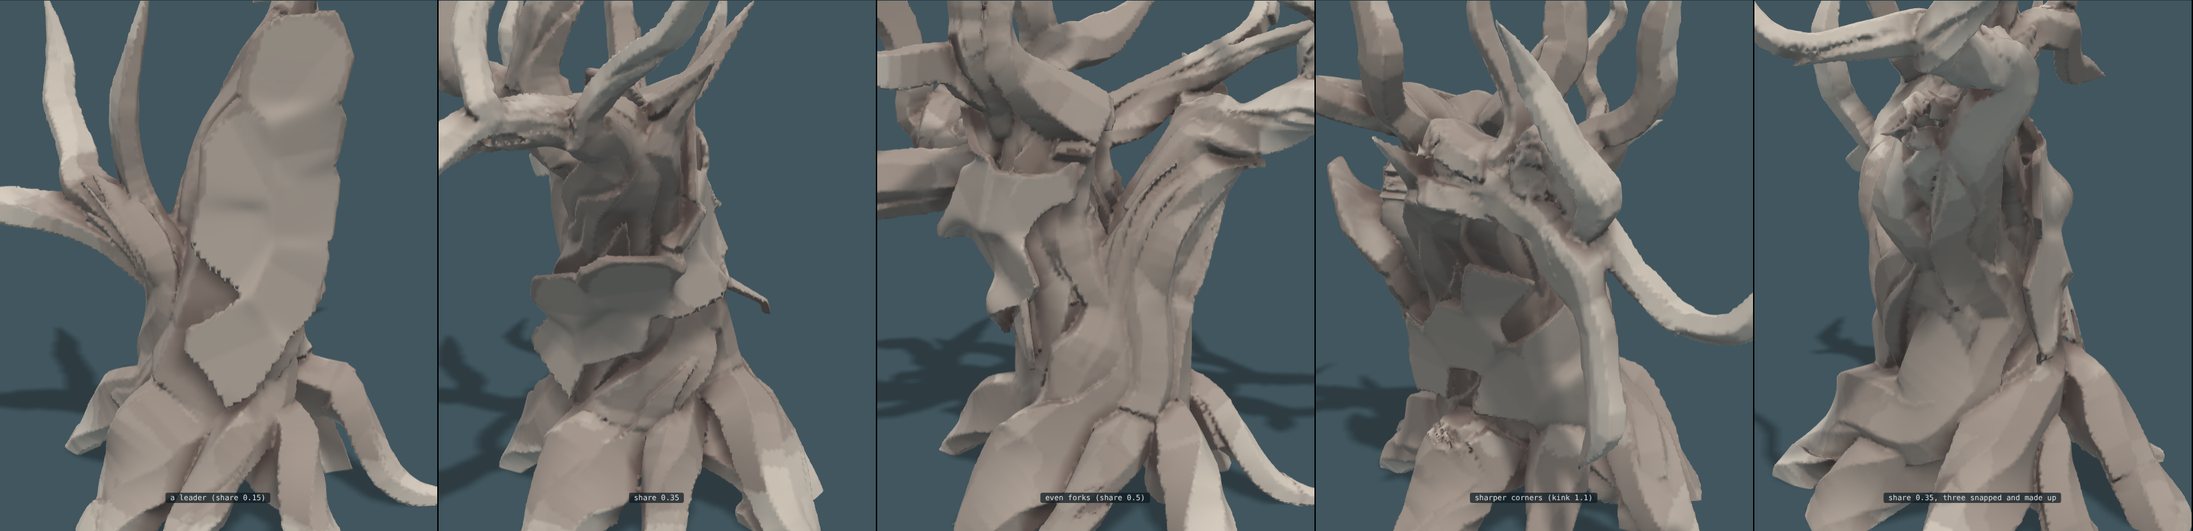
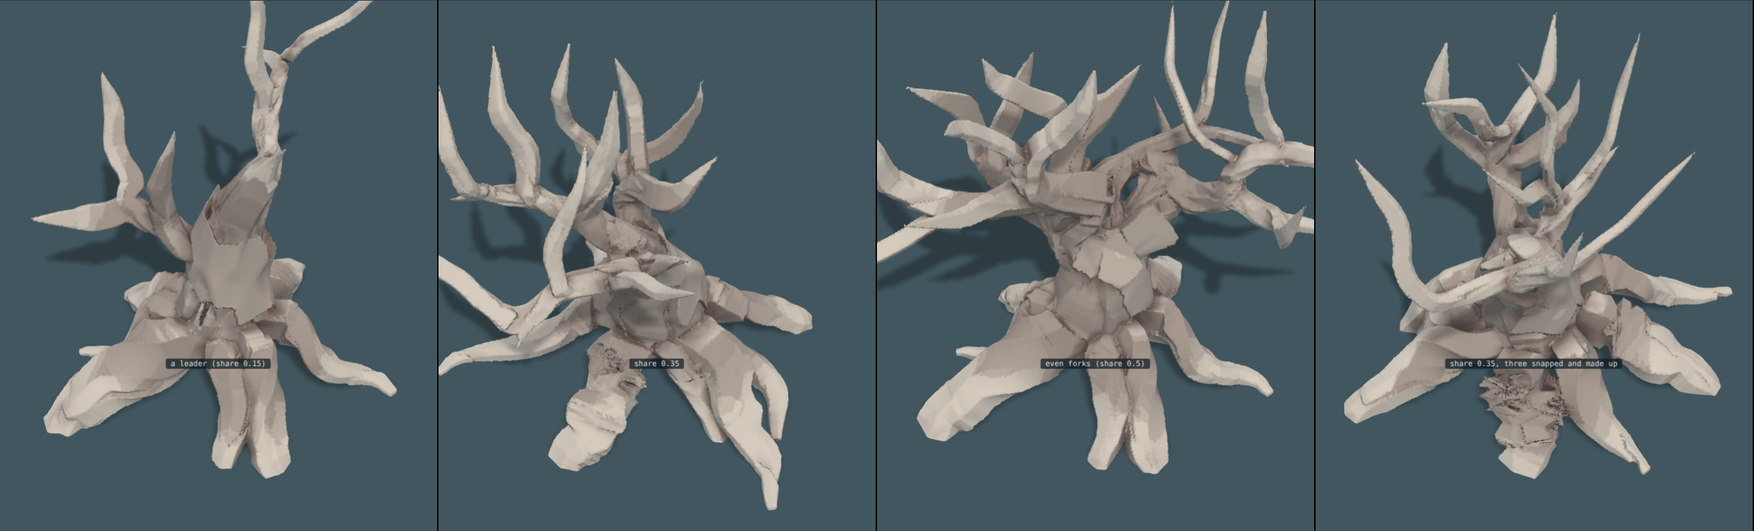
Run 019 and page 11: trees on ground of any shape; roots walked over it, and snaking
Claude-Session: https://claude.ai/code/session_0192rgp75jGkttZXf7hEakip

diff --git a/trees.js b/trees.js
@@ -30,7 +30,10 @@
   function frames(P) { let N = null; return P.map((p, i) => { const T = unit([0, 1, 2].map((k) => P[Math.min(P.length - 1, i + 1)][k] - P[Math.max(0, i - 1)][k])); N = unit((N || [1, 0, 0.2]).map((v, k, A) => v - T[k] * dot(A, T))); return [T, N, cross(T, N)]; }); }
 
   function grow(recipe) {
-    const P = Object.assign({ strands: 8, fill: 0.75, uneven: 0.5, twist: 0.5, taut: 0.3, stiff: 0.05, hug: 0.15, bind: 0.004, roots: 0.6, wind: 1.1, mixed: false, lmax: 0, set: 0, swell: 1, feet: 0, lap: 0, clear: 1, settle: 0, giving: 0.75, passes: 1500, ds: 0.035, seed: 1, trunk: [[0, 0.14, 0, 0.27], [0, 1.6, 0, 0.1]], limbs: [], orb: null }, recipe);
+    const P = Object.assign({ strands: 8, fill: 0.75, uneven: 0.5, twist: 0.5, taut: 0.3, stiff: 0.05, hug: 0.15, bind: 0.004, roots: 0.6, wind: 1.1, mixed: false, lmax: 0, set: 0, swell: 1, feet: 0, lap: 0, ground: null, down: 0.6, crease: 0.5, snake: 1, clear: 1, settle: 0, giving: 0.75, passes: 1500, ds: 0.035, seed: 1, trunk: [[0, 0.14, 0, 0.27], [0, 1.6, 0, 0.1]], limbs: [], orb: null }, recipe);
+    // The ground, if the tree is given one: any function of a place that is how far it is outside the ground (less than
+    // nothing inside). Without one the ground is the level at height 0, as it always was. (A grown tree is always given one, level if nothing else, so that its roots are walked.)
+    const G = P.ground, gradG = G ? (x, y, z) => { const e = 0.008; return unit([G(x + e, y, z) - G(x - e, y, z), G(x, y + e, z) - G(x, y - e, z), G(x, y, z + e) - G(x, y, z - e)]); } : null, rootPts = [];
     const r = rng(P.seed), n = P.strands, ds = P.ds, trunk = line(P.trunk, ds), nT = trunk.length, R0 = trunk[0][3], rho0 = R0 * Math.sqrt(P.fill / n), turn = (i) => P.twist * TAU * i / nT;
     // every strand has a place in the bundle's section, and a girth of its own (mixed: most thin, a few heavy)
     const S = Array.from({ length: n }, (_, j) => { const d = Math.sqrt((j + 0.5) / n), a = j * GA + 0.5 * (r() - 0.5); return { a: d * Math.cos(a), b: d * Math.sin(a), fat: P.mixed ? 0.35 + 1.9 * Math.pow(r(), 2.5) : 1 + P.uneven * (r() - 0.5), limb: -1, give: r() < P.giving ? 1 : 0.25 * r() }; });
@@ -77,9 +80,32 @@
       }
       // its root: the strand itself coming down from the foot of the trunk the way it faces there, heavy, and
       // most often going into the ground. A few stay on it and run out to a point.
-      const p0 = X[0], away = H(p0[0] - trunk[0][0], p0[2] - trunk[0][2]) > 1e-4 ? unit([p0[0] - trunk[0][0], 0, p0[2] - trunk[0][2]]) : [1, 0, 0], len = P.roots * (0.5 + 0.5 * r()), Kr = Math.max(6, Math.round(len / ds)), bend = 2.6 * (r() - 0.5), dives = r() < 0.75, rx = [], rr = [], rg = []; let q = p0;
-      for (let m = 1; m <= Kr; m++) { const g = m / Kr, t = bend * g * g, dir = [away[0] * Math.cos(t) - away[2] * Math.sin(t), 0, away[0] * Math.sin(t) + away[2] * Math.cos(t)], rad = rho[0] * (dives ? 0.5 + 0.5 * (1 - g) : 0.2 + 0.8 * Math.pow(1 - g, 0.8));
-        q = [q[0] + dir[0] * ds, p0[1] + (rad * 0.6 - p0[1]) * sstep(0, 0.8, g) - (dives ? 0.35 * sstep(0.6, 1, g) : 0), q[2] + dir[2] * ds]; rx.push(q); rr.push(rad); rg.push(q); }
+      const p0 = X[0], away = H(p0[0] - trunk[0][0], p0[2] - trunk[0][2]) > 1e-4 ? unit([p0[0] - trunk[0][0], 0, p0[2] - trunk[0][2]]) : [1, 0, 0], len = P.roots * (0.5 + 0.5 * r()), bend = 2.6 * (r() - 0.5), dives = r() < 0.75, rx = [], rr = [], rg = []; let q = p0, Kr = Math.max(6, Math.round(len / ds));
+      if (!G) {
+        for (let m = 1; m <= Kr; m++) { const g = m / Kr, t = bend * g * g, dir = [away[0] * Math.cos(t) - away[2] * Math.sin(t), 0, away[0] * Math.sin(t) + away[2] * Math.cos(t)], rad = rho[0] * (dives ? 0.5 + 0.5 * (1 - g) : 0.2 + 0.8 * Math.pow(1 - g, 0.8));
+          q = [q[0] + dir[0] * ds, p0[1] + (rad * 0.6 - p0[1]) * sstep(0, 0.8, g) - (dives ? 0.35 * sstep(0.6, 1, g) : 0), q[2] + dir[2] * ds]; rx.push(q); rr.push(rad); rg.push(q); }
+      } else {
+        // On ground that is not level a root is not laid, it is walked. From the foot it goes the way its strand faces,
+        // one step at a time over the surface, and at each step takes, of three ways (on, a little left, a little
+        // right), the one that goes more downhill, lies more in a crease, and is further from the roots already
+        // there. It is kept at its own girth's height off the surface, so it goes over an edge and down a face and
+        // never through a corner or clear of the ground. Going down a face counts little toward its length, so one
+        // that goes over an edge runs on until it comes to a ledge. Most then go into the ground where they are.
+        // And it snakes: its heading swings from side to side as it goes, by a different amount and over a different
+        // length for every root and for every swing, so one root pulls in many directions along its run.
+        let pos = p0, h = away, prog = 0, ph = TAU * r(), wave = Math.max(0.24, rho[0] * (7 + 7 * r())), amp = P.snake * (0.4 + 0.5 * r());   // (a swing is several girths long: tighter than that a root runs into itself)
+         const c0 = G(p0[0], p0[1], p0[2]), most = Kr * 4;
+        for (let m = 1; m <= most && prog < len; m++) { const g = Math.min(1, prog / len), rad = rho[0] * (dives ? 0.5 + 0.5 * (1 - g) : 0.2 + 0.8 * Math.pow(1 - g, 0.8)), nn = gradG(pos[0], pos[1], pos[2]);
+          let tt = h.map((v, k) => v - nn[k] * dot(h, nn)); const dn = UP.map((v, k) => -(v - nn[k] * nn[1])), dl = H(dn[0], dn[1], dn[2]); if (H(tt[0], tt[1], tt[2]) < 0.2) tt = dl > 1e-6 ? dn : cross(nn, [1, 0, 0]); tt = unit(tt);
+          { const sw = amp * (TAU * ds / wave) * Math.cos(ph), sd = cross(nn, tt); tt = unit(tt.map((v, k) => v * Math.cos(sw) + sd[k] * Math.sin(sw))); ph += TAU * ds / wave; if (ph > TAU) { ph -= TAU; wave = Math.max(0.24, rho[0] * (7 + 7 * r())); amp = P.snake * (0.4 + 0.5 * r()); } }
+          const side = cross(nn, tt); let best = null;
+          for (const a of [-0.3, 0, 0.3]) { const c = tt.map((v, k) => v * Math.cos(a) + side[k] * Math.sin(a)), pr = pos.map((v, k) => v + c[k] * 0.07); let near = 0.22; for (const q of rootPts) near = Math.min(near, H(pr[0] - q[0], pr[1] - q[1], pr[2] - q[2]));
+            const score = P.down * dot(c, dn) - P.crease * Math.min(1, Math.max(0, G(pr[0] + nn[0] * 0.07, pr[1] + nn[1] * 0.07, pr[2] + nn[2] * 0.07)) / 0.07) + 1.8 * near / 0.22 + (a === 0 ? 0.15 : 0) + 0.1 * r(); if (!best || score > best.score) best = { score, c }; }
+          h = best.c; const want = c0 + (rad * 0.6 - c0) * sstep(0, 0.8, g) - (dives ? 0.35 * sstep(0.6, 1, g) : 0); let nx = pos.map((v, k) => v + h[k] * ds);
+          for (let it = 0; it < 3; it++) { const gn = gradG(nx[0], nx[1], nx[2]), gv = G(nx[0], nx[1], nx[2]); nx = nx.map((v, k) => v + gn[k] * (want - gv)); }
+          const steep = Math.abs(gradG(nx[0], nx[1], nx[2])[1]) < 0.6; prog += ds * (steep ? 0.3 : 1); pos = nx; rx.push(nx); rr.push(rad); rg.push(nx); }
+        for (const q of rx) rootPts.push(q); Kr = rx.length;
+      }
       s.root = Kr; s.K = Kr + X.length; const all = rx.reverse().concat(X), goals = rg.reverse().concat(goal);
       s.X = Float64Array.from(all.flat()); s.goal = Float64Array.from(goals.flat()); s.rho = Float64Array.from(rr.reverse().concat(rho)); s.hold = Float64Array.from(Array.from({ length: Kr }, (_, k) => (k < Kr * 0.45 ? 0.2 : 0)).concat(hold));   // anchored at the far end of its root, and nowhere else
       s.limbAt = fi; s.bend = P.stiff * Math.min(1.6, s.fat * s.fat);
@@ -102,6 +128,7 @@
         for (let k = 0; k < L.K; k++) L.rho[k] = Math.sqrt(L.rho[k] ** 2 + add[k]); }
       for (const [i, lead, m] of cuts) { const B = S[i], k0 = B.root + m; B.X = B.X.slice(k0 * 3); B.goal = B.goal.slice(k0 * 3); B.rho = B.rho.slice(k0); B.hold = new Float64Array(B.K - k0); B.K -= k0; B.base = m; B.root = 0; B.stem = lead; B.po = S[lead].root + m; }
     }
+    if (G) for (const s of S) { s.gc = new Float64Array(s.K); for (let k = 0; k < s.K; k++) s.gc[k] = G(s.goal[k * 3], s.goal[k * 3 + 1], s.goal[k * 3 + 2]); }   // how far off the ground each place on a strand was meant to be
     // Where a shoot snapped off (a limb given as a `stub`). Three ages of the same event:
     //   fresh   the stub stands, its strands broken off a little apart
     //   hollow  the stub has rotted out: its strands end below, fined to points, and there is room where it was
@@ -206,7 +233,8 @@
         for (const v of marks) { if (v.asOrb || (s.limb === v.limb && v.kind === 'fresh')) continue;   // and out of the tunnel where a shoot was (its own stub, if it has one, is what lies there)
           const ax = v.e[0] - v.a[0], ay = v.e[1] - v.a[1], az = v.e[2] - v.a[2], t = Math.max(0, Math.min(1, ((s.X[k * 3] - v.a[0]) * ax + (s.X[k * 3 + 1] - v.a[1]) * ay + (s.X[k * 3 + 2] - v.a[2]) * az) / (ax * ax + ay * ay + az * az))), qx = v.a[0] + ax * t, qy = v.a[1] + ay * t, qz = v.a[2] + az * t;
           const keep = v.r * (v.kind !== 'fresh' ? 1 : 0.8) * vg + s.rho[k], dx = s.X[k * 3] - qx, dy = s.X[k * 3 + 1] - qy, dz = s.X[k * 3 + 2] - qz, d = H(dx, dy, dz) || 1e-9; if (d < keep) { const f = keep / d; s.X[k * 3] = qx + dx * f; s.X[k * 3 + 1] = qy + dy * f; s.X[k * 3 + 2] = qz + dz * f; } }
-        if (s.goal[k * 3 + 1] > 0 && s.X[k * 3 + 1] < s.rho[k] * 0.6) s.X[k * 3 + 1] = s.rho[k] * 0.6; }   // but a root that dives is let through
+        if (G) { if (s.gc && s.gc[k] > 0) { const keep = Math.min(s.rho[k] * 0.6, s.gc[k]), gv = G(s.X[k * 3], s.X[k * 3 + 1], s.X[k * 3 + 2]); if (gv < keep) { const gn = gradG(s.X[k * 3], s.X[k * 3 + 1], s.X[k * 3 + 2]); s.X[k * 3] += gn[0] * (keep - gv); s.X[k * 3 + 1] += gn[1] * (keep - gv); s.X[k * 3 + 2] += gn[2] * (keep - gv); } } }   // out of the ground, whatever its shape: trunk and limbs as well as roots (but a root where it goes in is let through)
+        else if (s.goal[k * 3 + 1] > 0 && s.X[k * 3 + 1] < s.rho[k] * 0.6) s.X[k * 3 + 1] = s.rho[k] * 0.6; }   // but a root that dives is let through
       joins();
       if (SP && pass % SP.every === 0) { const cand = S.map((s, i) => [s.press, i]).filter((q) => q[0] > SP.at).sort((a, b) => b[0] - a[0]); for (const [, i] of cand) { if (S.length >= SP.most) break; divide(i); } for (const s of S) s.press = 0; }
     }
@@ -223,7 +251,8 @@
         for (const v of marks) { if (v.asOrb || (s.limb === v.limb && v.kind === 'fresh')) continue;   // and out of the tunnel where a shoot was (its own stub, if it has one, is what lies there)
           const ax = v.e[0] - v.a[0], ay = v.e[1] - v.a[1], az = v.e[2] - v.a[2], t = Math.max(0, Math.min(1, ((s.X[k * 3] - v.a[0]) * ax + (s.X[k * 3 + 1] - v.a[1]) * ay + (s.X[k * 3 + 2] - v.a[2]) * az) / (ax * ax + ay * ay + az * az))), qx = v.a[0] + ax * t, qy = v.a[1] + ay * t, qz = v.a[2] + az * t;
           const keep = v.r * (v.kind !== 'fresh' ? 1 : 0.8) * vg + s.rho[k], dx = s.X[k * 3] - qx, dy = s.X[k * 3 + 1] - qy, dz = s.X[k * 3 + 2] - qz, d = H(dx, dy, dz) || 1e-9; if (d < keep) { const f = keep / d; s.X[k * 3] = qx + dx * f; s.X[k * 3 + 1] = qy + dy * f; s.X[k * 3 + 2] = qz + dz * f; } }
-        if (s.goal[k * 3 + 1] > 0 && s.X[k * 3 + 1] < s.rho[k] * 0.6) s.X[k * 3 + 1] = s.rho[k] * 0.6; }   // but a root that dives is let through
+        if (G) { if (s.gc && s.gc[k] > 0) { const keep = Math.min(s.rho[k] * 0.6, s.gc[k]), gv = G(s.X[k * 3], s.X[k * 3 + 1], s.X[k * 3 + 2]); if (gv < keep) { const gn = gradG(s.X[k * 3], s.X[k * 3 + 1], s.X[k * 3 + 2]); s.X[k * 3] += gn[0] * (keep - gv); s.X[k * 3 + 1] += gn[1] * (keep - gv); s.X[k * 3 + 2] += gn[2] * (keep - gv); } } }   // out of the ground, whatever its shape: trunk and limbs as well as roots (but a root where it goes in is let through)
+        else if (s.goal[k * 3 + 1] > 0 && s.X[k * 3 + 1] < s.rho[k] * 0.6) s.X[k * 3 + 1] = s.rho[k] * 0.6; }   // but a root that dives is let through
       joins();
     }
     // which way each strand faces outward: away from the middle of its own bundle, the strands that go its way
@@ -243,7 +272,7 @@
         s.F.push(H(o[0], o[1], o[2])); const al = dot(o, T); o = [o[0] - T[0] * al, o[1] - T[1] * al, o[2] - T[2] * al];
         if (H(o[0], o[1], o[2]) < 0.25 * s.rho[k]) { const lt = dot(last, T); o = [last[0] - T[0] * lt, last[1] - T[1] * lt, last[2] - T[2] * lt]; if (H(o[0], o[1], o[2]) < 1e-6) o = cross(T, [T[1], T[2], T[0]]); } o = unit(o);
         if (orb) { const rx = x - orb.c[0], ry = y - orb.c[1], rz = z - orb.c[2], rd = H(rx, ry, rz) || 1, w = 1 - sstep(1.15, 1.7, rd / orb.room); o = unit([o[0] * (1 - w) + rx / rd * w, o[1] * (1 - w) + ry / rd * w, o[2] * (1 - w) + rz / rd * w]); }   // near an orb it faces away from the orb
-        if (k < s.root) { const t = sstep(0, 0.7, 1 - k / s.root); o = unit([o[0] * (1 - t), o[1] * (1 - t) + t, o[2] * (1 - t)]); } s.O.push(o); last = o; }
+        if (k < s.root) { const t = sstep(0, 0.7, 1 - k / s.root), up = G ? gradG(s.X[k * 3], s.X[k * 3 + 1], s.X[k * 3 + 2]) : UP; o = unit([o[0] * (1 - t) + up[0] * t, o[1] * (1 - t) + up[1] * t, o[2] * (1 - t) + up[2] * t]); } s.O.push(o); last = o; }   // a root faces away from the ground it lies on
       for (let pass = 0; pass < 8; pass++) s.O = s.O.map((o, k) => (k === 0 || k === s.K - 1 ? o : unit([0, 1, 2].map((q) => 0.5 * o[q] + 0.25 * (s.O[k - 1][q] + s.O[k + 1][q])))));
     }
     // Pulled apart like string cheese. What has split is still one body drawn apart, and three things show it.
@@ -301,9 +330,9 @@
   // rule, and `share` is its main number (small: a leader with side shoots; a half: even forks and no leader).
   // Returns { strands, trunk, limbs } for grow(), and what it made (shoots, tips, deepest).
   function sprout(rule) {
-    const Q = Object.assign({ strands: 18, seed: 1, share: 0.35, every: 0.1, first: 0.25, spread: 1.3, up: 0.4, wander: 0.5, reach: 1.15, tall: 1.1, twig: 0.22, foot: 0.2, step: 0.08, kink: 0.7, bout: 0.16, set: 0.8, snap: 0, as: 'mixed', least: 2, most: 0.25, regrow: true, feet: 8, lap: 0.3 }, rule), r = rng(Q.seed + 700), n = Q.strands, st = Q.step;
-    const length = (c) => Q.reach * (Q.twig + Math.sqrt(c / n)), inside = (p) => Math.abs(p[0]) < 0.9 && Math.abs(p[2]) < 0.9 && p[1] < 1.9 && p[1] > 0.3, laid = [];   // every point of every shoot so far
-    const open = (p) => { let d = 9; for (const q of laid) d = Math.min(d, H(p[0] - q[0], p[1] - q[1], p[2] - q[2])); return d; };
+    const Q = Object.assign({ strands: 18, seed: 1, share: 0.35, every: 0.1, first: 0.25, spread: 1.3, up: 0.4, wander: 0.5, reach: 1.15, tall: 1.1, twig: 0.22, foot: 0.2, step: 0.08, kink: 0.7, bout: 0.16, set: 0.8, snap: 0, as: 'mixed', least: 2, most: 0.25, regrow: true, feet: 8, lap: 0.3, ground: null, site: [0, 0], roots: 0.9 }, rule), r = rng(Q.seed + 700), n = Q.strands, st = Q.step;
+    const length = (c) => Q.reach * (Q.twig + Math.sqrt(c / n)), Gq = Q.ground, inside = (p) => Math.abs(p[0]) < 0.9 && Math.abs(p[2]) < 0.9 && p[1] < 1.9 && (Gq ? Gq(p[0], p[1], p[2]) > 0.12 : p[1] > 0.3), laid = [];   // every point of every shoot so far
+    const open = (p) => { let d = Gq ? Math.max(0, Gq(p[0], p[1], p[2])) * 1.2 : 9; for (const q of laid) d = Math.min(d, H(p[0] - q[0], p[1] - q[1], p[2] - q[2])); return d; };   // (open: far from every shoot, and from the ground and any rock)
     let shoots = 0, tips = 0, deepest = 0;
     const shoot = (p, d, c, len, depth, lead) => {
       const pts = [], kids = [], phase = TAU * r(); const gap = () => Q.every * (0.4 + 2.2 * Math.sqrt(c / n)) * (0.7 + 0.6 * r());   // a heavy shoot runs further between forks than a light one
@@ -329,7 +358,10 @@
       }
       tips++; return { path: pts, limbs: kids, total: gone };
     };
-    const R0 = Q.foot, p0 = [0, 0.22, 0], d0 = unit([0.25 * (r() - 0.5), 1, 0.25 * (r() - 0.5)]), top = shoot(p0, d0, n, Q.tall, 0, true);
+    // where it stands: on level ground at the middle, or at its `site` on the ground it is given, starting a little way out of the slope
+    const R0 = Q.foot; let p0 = [0, 0.22, 0], lean = [0, 0, 0];
+    if (Gq) { let y = 1.95; while (y > -0.05 && Gq(Q.site[0], y, Q.site[1]) > 0) y -= 0.01; const e = 0.01, gn = unit([Gq(Q.site[0] + e, y, Q.site[1]) - Gq(Q.site[0] - e, y, Q.site[1]), Gq(Q.site[0], y + e, Q.site[1]) - Gq(Q.site[0], y - e, Q.site[1]), Gq(Q.site[0], y, Q.site[1] + e) - Gq(Q.site[0], y, Q.site[1] - e)]); p0 = [Q.site[0], y + 0.22 * R0 / 0.2, Q.site[1]]; lean = [0.5 * gn[0], 0, 0.5 * gn[2]]; }
+    const d0 = unit([lean[0] + 0.25 * (r() - 0.5), 1, lean[2] + 0.25 * (r() - 0.5)]), top = shoot(p0, d0, n, Q.tall, 0, true);
     const tidy = (sh, par) => sh.limbs.map((k) => { const o = { at: Math.min(0.97, k.s / sh.total), count: k.count, path: k.path, from: k.from, dir: k.dir, s: k.s, host: sh, par, own: k, depth: par ? par.depth + 1 : 1 }; o.limbs = tidy(k, o); return o; });
     // Snapping. `snap` of the side shoots break off close to where they left: ones carrying at least `least` strands and
     // at most `most` of the tree's, so the wound is worth seeing and the tree is still a tree. All that grew from one goes with it, and its strands end at the break. Each is one of three ages (`as`, or mixed).
@@ -352,8 +384,11 @@
       (L.par ? L.par.limbs : limbs).push(o); for (let q = L.par; q; q = q.par) q.count += k; extra += k; regrown++; }
     walk(limbs, (l) => { delete l.host; delete l.par; delete l.own; delete l.lost; });
     const Rn = R0 * Math.sqrt((n + extra) / n);   // the foot is as much broader as the tree has more strands, so that no strand is thinner for it
-    return { strands: n + extra, trunk: [[p0[0], p0[1], p0[2], Rn]].concat(top.path.map((p, i) => [p[0], p[1], p[2], Rn * (1 - 0.5 * (i + 1) / top.path.length)])), limbs, set: Q.set, feet: Q.feet, lap: Q.lap, made: { shoots, tips, deepest, snapped, regrown, strands: n + extra } };
+    return { strands: n + extra, trunk: [[p0[0], p0[1], p0[2], Rn]].concat(top.path.map((p, i) => [p[0], p[1], p[2], Rn * (1 - 0.5 * (i + 1) / top.path.length)])), limbs, set: Q.set, feet: Q.feet, lap: Q.lap, ground: Q.ground || level, roots: Q.roots, made: { shoots, tips, deepest, snapped, regrown, strands: n + extra } };
   }
+
+  // level ground at height 0, for a grown tree that is given no other. Marked, so that whoever draws the tree need not draw it.
+  const level = Object.assign((x, y, z) => y, { level: true });
 
   const api = { grow, sprout };
   if (typeof module !== 'undefined' && module.exports) module.exports = api; else root.Trees = api;

diff --git a/sketchbook11.html b/sketchbook11.html
@@ -1,0 +1,102 @@
+<title>Sketchbook Page 11</title>
+<meta name="claude:viewport-fit-sides" content="cover">
+<style>
+/* layout: the shapes fill the page; one strip of controls above; a name under each shape */
+:root { color-scheme: dark; --void: #14242b; --panel: #0f1b21; --line: #2a3e46; --ink: #d9e2e3; --dim: #8298a0; --pick: #e6c36a;
+  --mono: ui-monospace, "SF Mono", Menlo, Consolas, monospace; --sans: system-ui, -apple-system, "Segoe UI", sans-serif; }
+html, body { height: 100%; margin: 0; }
+body { background: var(--panel); color: var(--ink); font: 13px/1.4 var(--sans); display: flex; flex-direction: column; overflow: hidden; }
+#bar { display: flex; flex-wrap: wrap; gap: 8px 14px; align-items: center; padding-block: 8px; padding-left: max(16px, env(safe-area-inset-left, 0px)); padding-right: max(16px, env(safe-area-inset-right, 0px)); border-bottom: 1px solid var(--line); }
+#bar label { display: flex; gap: 6px; align-items: center; color: var(--dim); font: 11.5px var(--mono); }
+#bar p { margin: 0; color: var(--dim); font-size: 12px; flex: 1 1 260px; min-width: 0; }
+select { font: 12px var(--mono); color: var(--ink); background: #172a32; border: 1px solid var(--line); border-radius: 4px; padding: 4px 7px; }
+select:focus-visible { outline: 2px solid var(--pick); outline-offset: 1px; }
+#stage { position: relative; flex: 1; min-height: 0; background: var(--void); overflow: hidden; }
+#view { position: absolute; inset: 0; width: 100%; height: 100%; display: block; touch-action: none; cursor: grab; }
+.tag { position: absolute; transform: translate(-50%, 4px); font: 11px var(--mono); color: var(--ink); background: rgba(15, 27, 33, 0.72); padding: 1px 7px; border-radius: 3px; white-space: nowrap; pointer-events: none; }
+</style>
+
+<div id="bar">
+  <label>shape <select id="which" aria-label="Which shape to show"><option value="-1">the whole page</option></select></label>
+  <label>show <select id="cut" aria-label="How to show it"><option value="none">whole</option><option value="half">near half removed</option><option value="slice">thin slice</option></select></label>
+  <label><input id="tint" type="checkbox"> colour by layer</label>
+  <span id="key" hidden style="font: 11.5px var(--mono); color: var(--dim)"><b style="color:#d8d2c6">strands</b> · <b style="color:#e6c36a">torn parts</b> · <b style="color:#e08ac0">slivers and shell</b> · <b style="color:#6f9fe0">bark</b> · <b style="color:#86c98f">scar</b> · <b style="color:#8d9aa0">ground</b></span>
+  <p>A sketchbook page: quick, rough, thrown away if nothing sticks. Sketches appear one at a time. Drag to turn, scroll to zoom.</p>
+</div>
+<div id="stage"><canvas id="view" aria-label="Sculpted solid shapes"></canvas><div id="tags"></div></div>
+
+<script src="https://cdnjs.cloudflare.com/ajax/libs/three.js/r128/three.min.js"></script>
+<script src="cheats/fantastic.js"></script>
+<script src="sketch/page5.js"></script>
+<script src="trees.js"></script>
+<script src="sketch/page7.js"></script>
+<script src="sketch/page11.js"></script>
+<script>
+const T = THREE, $ = (id) => document.getElementById(id);
+const renderer = new T.WebGLRenderer({ canvas: $('view'), antialias: true });
+renderer.outputEncoding = T.sRGBEncoding; renderer.localClippingEnabled = true; renderer.shadowMap.enabled = true; renderer.shadowMap.type = T.PCFSoftShadowMap;
+const scene = new T.Scene(); scene.background = new T.Color(0x14242b);
+const cam = new T.PerspectiveCamera(24, 1, 0.05, 200);
+scene.add(new T.HemisphereLight(0xeaf2f5, 0x3a4d55, 0.62));
+const sun = new T.DirectionalLight(0xfff3e2, 0.62); sun.position.set(4, 9, 6); sun.castShadow = true; sun.shadow.mapSize.set(2048, 2048); sun.shadow.bias = -0.0004; sun.shadow.normalBias = 0.012;
+Object.assign(sun.shadow.camera, { left: -10, right: 10, top: 10, bottom: -10, near: 1, far: 40 }); scene.add(sun);
+const fill = new T.DirectionalLight(0xcfe3ee, 0.2); fill.position.set(-5, 3, -4); scene.add(fill);
+const floor = new T.Group(); floor.rotation.x = -Math.PI / 2;
+floor.add(new T.Mesh(new T.CircleGeometry(40, 64), new T.MeshBasicMaterial({ color: new T.Color(0x41565f).convertSRGBToLinear() })));
+const shade = new T.Mesh(new T.CircleGeometry(40, 64), new T.ShadowMaterial({ opacity: 0.3 })); shade.position.z = 0.002; shade.receiveShadow = true; floor.add(shade); scene.add(floor);
+const mat = new T.MeshStandardMaterial({ vertexColors: true, roughness: 0.92, side: T.DoubleSide, shadowSide: T.DoubleSide });
+const clay = new T.Color(0xe7e0d4).convertSRGBToLinear(), deep = new T.Color(0x9a7f78).convertSRGBToLinear();
+
+const shapes = [], orbMat = new T.MeshStandardMaterial({ color: new T.Color(0xfff6e0).convertSRGBToLinear(), emissive: new T.Color(0xffe9b8).convertSRGBToLinear(), emissiveIntensity: 0.85, roughness: 0.6 });
+// each shape takes about a second to mesh, so they are built one at a time and appear as they finish
+// clay by default; or each layer in its own colour, to see which layer is doing what
+const LAYER = [0xd8d2c6, 0xe6c36a, 0xe08ac0, 0x6f9fe0, 0x86c98f, 0x8d9aa0].map((c) => new T.Color(c).convertSRGBToLinear());
+const ROCK = new T.Color(0x9aa6ab).convertSRGBToLinear();   // the ground is not the tree: a cooler, darker clay
+function paint(sh) { const col = sh.mesh.geometry.attributes.color.array, on = $('tint').checked && sh.layer;
+  for (let q = 0; q < sh.tone.length; q++) { const k = Math.pow(Math.min(1, Math.max(0, sh.tone[q])), 1.3), l = 0.36 + 0.64 * k, c = on ? LAYER[sh.layer[q]] : sh.layer && sh.layer[q] === 5 ? ROCK : clay; col[q * 3] = (deep.r + (c.r - deep.r) * k) * l; col[q * 3 + 1] = (deep.g + (c.g - deep.g) * k) * l; col[q * 3 + 2] = (deep.b + (c.b - deep.b) * k) * l; }
+  sh.mesh.geometry.attributes.color.needsUpdate = true; }
+function addShape(i) {
+  const s = Fantastic.build(i), g = new T.BufferGeometry(), col = new Float32Array(s.tone.length * 3);
+  g.setAttribute('position', new T.BufferAttribute(s.pos, 3)); g.setAttribute('normal', new T.BufferAttribute(s.nrm, 3)); g.setAttribute('color', new T.BufferAttribute(col, 3)); g.setIndex(new T.BufferAttribute(s.idx, 1));
+  const m = new T.Mesh(g, mat); m.castShadow = m.receiveShadow = true; scene.add(m);
+  // the orb is its own thing: a plain ball, lit from within so it can be seen inside the wood, and lighting the wood round it a little
+  const ob = (Fantastic.orbs || [])[i];
+  if (ob) { const ball = new T.Mesh(new T.SphereGeometry(ob.r, 48, 32), orbMat); ball.position.set(ob.c[0], ob.c[1], ob.c[2]); m.add(ball); const glow = new T.PointLight(0xfff0d0, 0.9, ob.room * 4.5, 2); ball.add(glow); }
+  const tag = document.createElement('div'); tag.className = 'tag'; tag.textContent = s.name; $('tags').append(tag);
+  shapes.push({ mesh: m, tag, centre: s.centre, tone: s.tone, layer: s.layer }); paint(shapes[shapes.length - 1]);
+}
+Fantastic.names.forEach((name, i) => { const o = document.createElement('option'); o.value = i; o.textContent = name; $('which').append(o); });
+let target = new T.Vector3(), rad = 14, az = 0.45, pol = 1.2;
+function place() {
+  cam.position.set(target.x + rad * Math.sin(pol) * Math.sin(az), target.y + rad * Math.cos(pol), target.z + rad * Math.sin(pol) * Math.cos(az));
+  cam.lookAt(target); cam.updateMatrixWorld(); renderer.render(scene, cam);
+  const el = $('stage'), v = new T.Vector3();
+  for (const s of shapes) {
+    if (!s.mesh.visible) { s.tag.hidden = true; continue; }
+    v.set(s.mesh.position.x + s.centre[0], 0, s.mesh.position.z).project(cam);
+    s.tag.hidden = v.z > 1; s.tag.style.left = ((v.x + 1) / 2) * el.clientWidth + 'px'; s.tag.style.top = ((1 - v.y) / 2) * el.clientHeight + 'px';
+  }
+}
+function arrange() {
+  const one = +$('which').value, m = $('cut').value;
+  shapes.forEach((s, i) => { s.mesh.visible = one < 0 || one === i; s.mesh.position.set(one < 0 ? (i - 0.5) * 2.4 : 0, 0, 0); });
+  const w = 0.012;
+  mat.clippingPlanes = one >= 0 && m === 'half' ? [new T.Plane(new T.Vector3(0, 0, -1), 0)] : one >= 0 && m === 'slice' ? [new T.Plane(new T.Vector3(0, 0, -1), w), new T.Plane(new T.Vector3(0, 0, 1), w)] : [];
+  mat.needsUpdate = true;
+  if (one < 0) { target.set(0, 0.5, 0); rad = 9.5; az = 0.6; pol = 1.32; target.set(0, 1.0, 0); }
+  else if (shapes[one]) { target.set(0, 1.05, 0); rad = 7.2; az = m === 'none' ? 0.5 : 0; pol = m === 'slice' ? 1.5 : 1.25; }
+  place();
+}
+function fit() { const el = $('stage'); renderer.setPixelRatio(Math.min(devicePixelRatio || 1, 2)); renderer.setSize(el.clientWidth, el.clientHeight, false); cam.aspect = el.clientWidth / el.clientHeight; cam.updateProjectionMatrix(); place(); }
+let drag = null;
+$('view').addEventListener('pointerdown', (e) => { drag = [e.clientX, e.clientY]; $('view').setPointerCapture(e.pointerId); });
+$('view').addEventListener('pointerup', () => (drag = null));
+$('view').addEventListener('pointermove', (e) => { if (!drag) return; az -= (e.clientX - drag[0]) * 0.008; pol = Math.min(3.05, Math.max(0.08, pol - (e.clientY - drag[1]) * 0.008)); drag = [e.clientX, e.clientY]; place(); });
+$('view').addEventListener('wheel', (e) => { e.preventDefault(); rad *= Math.exp(e.deltaY * 0.0012); place(); }, { passive: false });
+$('which').addEventListener('change', arrange); $('cut').addEventListener('change', arrange);
+new ResizeObserver(fit).observe($('stage'));
+fit();
+(function next(i) { if (i >= Fantastic.names.length) { window.__ready = true; return; } addShape(i); arrange(); setTimeout(() => next(i + 1), 30); })(0);
+$('tint').addEventListener('change', () => { $('key').hidden = !$('tint').checked; shapes.forEach(paint); place(); });
+window.__cheats = { arrange, set: (i, cut, a, p, r, ty, tint) => { if (tint !== undefined && $('tint').checked !== !!tint) { $('tint').checked = !!tint; $('key').hidden = !tint; shapes.forEach(paint); } $('which').value = i; $('cut').value = cut || 'none'; arrange(); if (a != null) az = a; if (p != null) pol = p; if (r) rad = r; if (ty != null) target.y = ty; place(); } };
+</script>

diff --git a/sketch/page7.js b/sketch/page7.js
@@ -92,9 +92,9 @@
       }
     }
     // where a strand is on the outside of the wood, and off the ground
-    const outer = (s, k) => k > s.root + 4 && k < s.K - 3 && s.far[k] > 1.1 * s.rho[k] && s.rho[k] > 0.03 && !wounds.some((v) => H(s.X[k * 3] - v.c[0], s.X[k * 3 + 1] - v.c[1], s.X[k * 3 + 2] - v.c[2]) < 2 * v.r);
+    const rhoTop = Math.max(...t.strands.map((q) => Math.max(...q.rho))), outer = (s, k) => k > s.root + 4 && k < s.K - 3 && s.far[k] > 1.1 * s.rho[k] && s.rho[k] > Math.min(0.03, 0.4 * rhoTop) && !wounds.some((v) => H(s.X[k * 3] - v.c[0], s.X[k * 3 + 1] - v.c[1], s.X[k * 3 + 2] - v.c[2]) < 2 * v.r);
     const stretch = (s, len) => { for (let go = 0; go < 6; go++) { const k0 = s.root + 4 + Math.floor(r() * Math.max(1, s.K - s.root - len - 8)), k1 = k0 + len; if (k1 < s.K - 2 && outer(s, k0) && outer(s, k1) && outer(s, (k0 + k1) >> 1)) return [k0, k1]; } return null; };
-    const thick = t.strands.filter((q) => !q.vine && !(q.inner && q.inner.some((v) => v)) && Math.max(...q.rho) > 0.045);
+    const thick = t.strands.filter((q) => !q.vine && !(q.inner && q.inner.some((v) => v)) && Math.max(...q.rho) > Math.min(0.045, 0.6 * rhoTop));   // (thick: for a small tree, by its own measure)
     if (!recipe.bare) for (const s of thick) for (let j = 0; j < 2; j++) {   // slivers
       const u = r(), len = 10 + Math.floor(18 * r()), side = (r() < 0.5 ? -1 : 1) * (0.25 + 0.5 * r()), lift = 0.3 + 0.7 * r(), wide = 0.3 + 0.25 * r(), high = 0.3 + 0.2 * r(), sd = 1 + Math.floor(r() * 1e6), rd = 0.8 * (r() - 0.5), eL = 0.1 + 0.6 * r(), eR = 0.1 + 0.6 * r(), st = u < 0.6 ? stretch(s, len) : null; if (!st) continue;
       const C = [], O = [], W = [], Hh = [], D = [];
@@ -131,7 +131,7 @@
       count.dropped++;
     };
     const want = recipe.bare ? 0 : recipe.plates === undefined ? 16 : recipe.plates, splitAt = [Math.floor(want * r()), Math.floor(want * r())];
-    for (let j = 0; j < want; j++) {
+    for (let j = 0; j < want && thick.length; j++) {
       const s = thick[Math.floor(r() * thick.length)], len = 12 + Math.floor(18 * r()), forward = r() < 0.9, side = 0.7 * (r() - 0.5), wide = 0.95 + 0.6 * r(), high = 0.2 + 0.1 * r(), e = r(), rd = 0.6 * (r() - 0.5), eL = 0.5 + 0.4 * r(), eR = 0.5 + 0.4 * r(), sd = 1 + Math.floor(r() * 1e6), u1 = r(), u2 = r(), u3 = r(), u4 = r(), st = stretch(s, len), split = splitAt.includes(j);
       if (!st) { count.dropped++; continue; }
       plate(s, st[0], st[1], forward, side, wide, high, split ? 'blunt' : e < 0.7 ? 'point' : 'blunt', { ridge: rd, eL, eR, split: split ? { fromEnd: true, s0: 0.42 + 0.2 * u1, s1: 1.001, u: 0.4 * (u2 - 0.5), wide: 0.2 + 0.12 * u3, lift: 0.5 + 0.5 * u4, depth: 9 } : null }, sd);
@@ -236,8 +236,9 @@
       if (C.length) { all.push({ f, C, reach, layer: 3 }); index(all.length - 1); }
     }
     // which layer the surface belongs to at a place: that of whichever piece is nearest there
-    const o = t.orb, f = (x, y, z) => solid(x, y, z);
-    f.layerAt = (x, y, z) => { const b = grid.get(key(Math.floor(x / cell), Math.floor(y / cell), Math.floor(z / cell))); let d = 9, l = 0; if (b) for (const i of b) { const v = all[i].f(x, y, z); if (v < d) { d = v; l = all[i].layer || 0; } } return l; };
+    // the ground the tree was given, if any, is part of what is shown: its own layer, and no part of the wood
+    const o = t.orb, gr = recipe.ground && !recipe.ground.level ? recipe.ground : null, f = gr ? (x, y, z) => Math.min(solid(x, y, z), gr(x, y, z)) : (x, y, z) => solid(x, y, z);
+    f.layerAt = (x, y, z) => { const b = grid.get(key(Math.floor(x / cell), Math.floor(y / cell), Math.floor(z / cell))); let d = 9, l = 0; if (b) for (const i of b) { const v = all[i].f(x, y, z); if (v < d) { d = v; l = all[i].layer || 0; } } if (gr && gr(x, y, z) < d) l = 5; return l; };
     f.orb = o && !o.empty ? o : null; f.marks = wounds; f.measure = t.measure; f.count = count; return f;
   }
   // the same four trees. bare: bands only, so the body can be judged by itself.

diff --git a/sketch/page11.js b/sketch/page11.js
@@ -1,0 +1,26 @@
+// Sketchbook, page 11. Trees on ground that is not level. The ground is given (it is the place, not an organism): a
+// few faceted rocks and tilted planes, throwaway. The tree is grown on it: its shoots keep off the rock, its strands
+// are pushed out of it, and its roots are walked over its surface (see trees.js). Four sites.
+(function () {
+  const { tree } = Trees7, mesh = Fantastic.mesh, H = Math.hypot;
+  function rng(seed) { let a = (seed * 2654435761) >>> 0; return () => { a = (a + 0x6d2b79f5) | 0; let t = Math.imul(a ^ (a >>> 15), 1 | a); t = (t + Math.imul(t ^ (t >>> 7), 61 | t)) ^ t; return ((t ^ (t >>> 14)) >>> 0) / 4294967296; }; }
+  // Ground is a function of a place: how far outside the ground it is. Made of:
+  //   under(n, at)   everything under a plane through `at` facing n
+  //   rock(c, R, seed, squash)   a stone: what is inside a dozen planes set round a middle at uneven distances
+  //   all(...)       any of them
+  const unit = (a) => { const l = H(a[0], a[1], a[2]) || 1; return [a[0] / l, a[1] / l, a[2] / l]; };
+  const under = (n, at) => { const u = unit(n), d = u[0] * at[0] + u[1] * at[1] + u[2] * at[2]; return (x, y, z) => u[0] * x + u[1] * y + u[2] * z - d; };
+  const rock = (c, R, seed, squash = [1, 1, 1]) => { const r = rng(seed), P = []; for (let i = 0; i < 12; i++) { const y = 1 - 2 * (i + 0.5) / 12, rad = Math.sqrt(1 - y * y), a = i * 2.39996 + 6.28 * r(), u = unit([rad * Math.cos(a) + 0.5 * (r() - 0.5), y + 0.5 * (r() - 0.5), rad * Math.sin(a) + 0.5 * (r() - 0.5)]); P.push([u[0] / squash[0], u[1] / squash[1], u[2] / squash[2], R * (0.72 + 0.28 * r())]); }
+    return (x, y, z) => { let d = -9; for (const p of P) d = Math.max(d, (p[0] * (x - c[0]) + p[1] * (y - c[1]) + p[2] * (z - c[2])) / H(p[0], p[1], p[2]) - p[3] / H(p[0], p[1], p[2]) * 1); return d; }; };
+  const both = (a, b) => (x, y, z) => Math.max(a(x, y, z), b(x, y, z)), all = (...fs) => (x, y, z) => { let d = 9; for (const f of fs) d = Math.min(d, f(x, y, z)); return d; };
+  const SITES = [
+    ['on a slope', all(under([0.38, 1, 0.1], [0, 0.42, 0]), rock([0.42, 0.3, 0.3], 0.24, 3), rock([-0.5, 0.62, -0.35], 0.2, 5)), [0, 0], 1],
+    ['at a cliff edge', all(both(under([0, 1, 0.05], [0, 0.62, 0]), under([1, 0.18, 0], [0.14, 0.3, 0])), under([-0.08, 1, 0], [0, 0.07, 0]), rock([0.55, 0.1, -0.4], 0.2, 7)), [-0.06, 0], 2],
+    ['on a boulder', all(under([0.05, 1, -0.05], [0, 0.1, 0]), rock([0, 0.32, 0], 0.4, 11, [1.1, 0.85, 1])), [0.03, 0.02], 3],
+    ['in a cleft', all(under([0, 1, 0.06], [0, 0.08, 0]), rock([-0.5, 0.3, 0.02], 0.36, 13, [1, 1.1, 1.2]), rock([0.5, 0.28, -0.04], 0.36, 17, [1, 1.05, 1.2])), [0, 0], 4],
+  ];
+  const quick = typeof location !== 'undefined' ? +new URLSearchParams(location.search).get('h') : 0;   // ?h=0.013 for a quick look
+  const S = SITES.map(([name, ground, site, seed]) => [name, tree(Object.assign({ seed }, Trees.sprout({ seed, strands: 14, feet: 6, foot: 0.16, tall: 0.8, reach: 0.85, twig: 0.2, ground, site }), { roots: 1.2 }))]);
+  if (typeof location !== 'undefined') { const only = new URLSearchParams(location.search).get('only'); if (only) { const keep = only.split(',').map(Number).map((i) => S[i]).filter(Boolean); S.length = 0; S.push(...keep); } }   // ?only=2 builds just that one
+  window.Fantastic = { grounds: SITES.map((s) => s[1]), fields: S.map((s) => s[1]), names: S.map((s) => s[0]), orbs: S.map((s) => s[1].orb), counts: S.map((s) => s[1].count), build: (i) => { const g = mesh(S[i][1], S[i][0], quick || 0.0085, 2.05), n = g.pos.length / 3; g.layer = new Uint8Array(n); for (let q = 0; q < n; q++) g.layer[q] = S[i][1].layerAt(g.pos[q * 3] - g.nrm[q * 3] * 0.004, g.pos[q * 3 + 1] - g.nrm[q * 3 + 1] * 0.004, g.pos[q * 3 + 2] - g.nrm[q * 3 + 2] * 0.004); return g; }, mesh, kit: Fantastic.kit };
+})();

diff --git a/LOG.md b/LOG.md
@@ -2772,3 +2772,78 @@ enough to run into their neighbours, and now the neighbours are already
 in each other, so the grooves between strands close up and near-coincident
 faces show as marbling. The strands are there; the relief that showed
 them is not. Not mended: the drawn width needs to know about the overlap.
+
+## Run 019: ground that is not level
+
+Said: the heaviest tree's smooth trunk is something to avoid building, not
+to mend. Next, trees on highly uneven ground: boulders, ravines, cliffs,
+hills. The roots have to sell that the tree always belonged there and was
+not dropped. "The asset clearly being built separate from the place that
+asset will have to live in" is the thing to get away from.
+
+What the ground is. Any function of a place that says how far outside the
+ground it is. It is given: it is the place, not an organism. The test
+ground here is tilted planes and a few faceted stones (`sketch/page11.js`),
+throwaway.
+
+What the tree does about it, each one rule:
+- It stands at a `site` on the ground, and starts a little out of the
+  slope.
+- Its shoots keep off rock: "most open side" now counts rock as well as
+  other shoots, and no shoot grows within reach of the ground.
+- Every strand, trunk and limb as well as root, is pushed out of the
+  ground while the tree settles.
+- A root is not laid, it is walked. From the foot it goes the way its
+  strand faces, a step at a time over the surface, taking at each step, of
+  three ways, the one more downhill, more in a crease, and further from
+  the roots already there. It is kept its own girth's height off the
+  surface, so it goes over an edge and down a face and never through a
+  corner or clear of the ground. Going down a face counts little toward
+  its length, so a root that goes over an edge runs on until it comes to a
+  ledge. Most then go into the ground where they are.
+- A root faces away from the ground it lies on, whatever way that is.
+
+Four sites: on a slope, at a cliff edge, on a boulder, in a cleft between
+two stones.
+
+Predicted: roots hug the stone and run down the cliff; on the edge the
+roots inland stay short and those over the lip run long; roots wrapping a
+boulder cross each other at its foot; a root crossing a sharp lip cuts
+the corner; and the tree still looks placed if its foot does not answer.
+
+First (`sketch/page11-straight-roots-withdrawn.png`): the first two held
+at once. One root went over the lip and down the face to the ledge; roots
+poured down the boulder to the ground. No corner was cut. (The cleft's two
+stones had no gap between them and buried the tree; moved apart.)
+
+Said then: "Roots are far more crawly snaking and winding because they
+lend their strength varied directions in which a single root run."
+So a root snakes: its heading swings from side to side as it goes, by a
+different amount and over a different length for every root and every
+swing. First try (`sketch/page11-snaking-too-tight.png`): swings 0.16 to
+0.38 long on roots 0.1 thick. They ran into themselves and each other and
+came out as lumps and crumbs. A swing is now seven to fourteen girths
+long, roots keep further apart, and they are longer.
+
+Now (`sketch/page11.png`, `-other-side`, `-from-above`): on the slope the
+roots wind out over it; at the edge two go over the lip and one curls
+onto the ledge at the bottom; on the boulder they come down its faces and
+one runs on over the ground; in the cleft they come out of both ends
+along the ground. Grown trees on level ground have walked roots too
+(`sketch/page9.png`, `-foot`): the foot is winding roots where it was
+short legs.
+
+Wrong, or not there:
+- The trunk does not answer the ground. It starts a little out of the
+  slope and that is all: no sweep at the base, no lean away from a wall it
+  stands against. In the cleft it simply stands between the stones.
+- Roots do not fork. A root is one line from foot to end.
+- Nothing crosses a gap. A root that meets a ravine goes down its wall.
+- Every root is as likely to go uphill as down at the start: they leave
+  the way their strands face. A tree on an edge does not put more root to
+  the side that has to hold it.
+- The ground does not answer the tree. Nothing is lifted, cracked or
+  heaped against a root.
+- Where the tree stands is chosen by hand.
+- Roots still cross where two come down the same face; and one tree on
+  level ground has a patch of crumbs where two roots run together.
